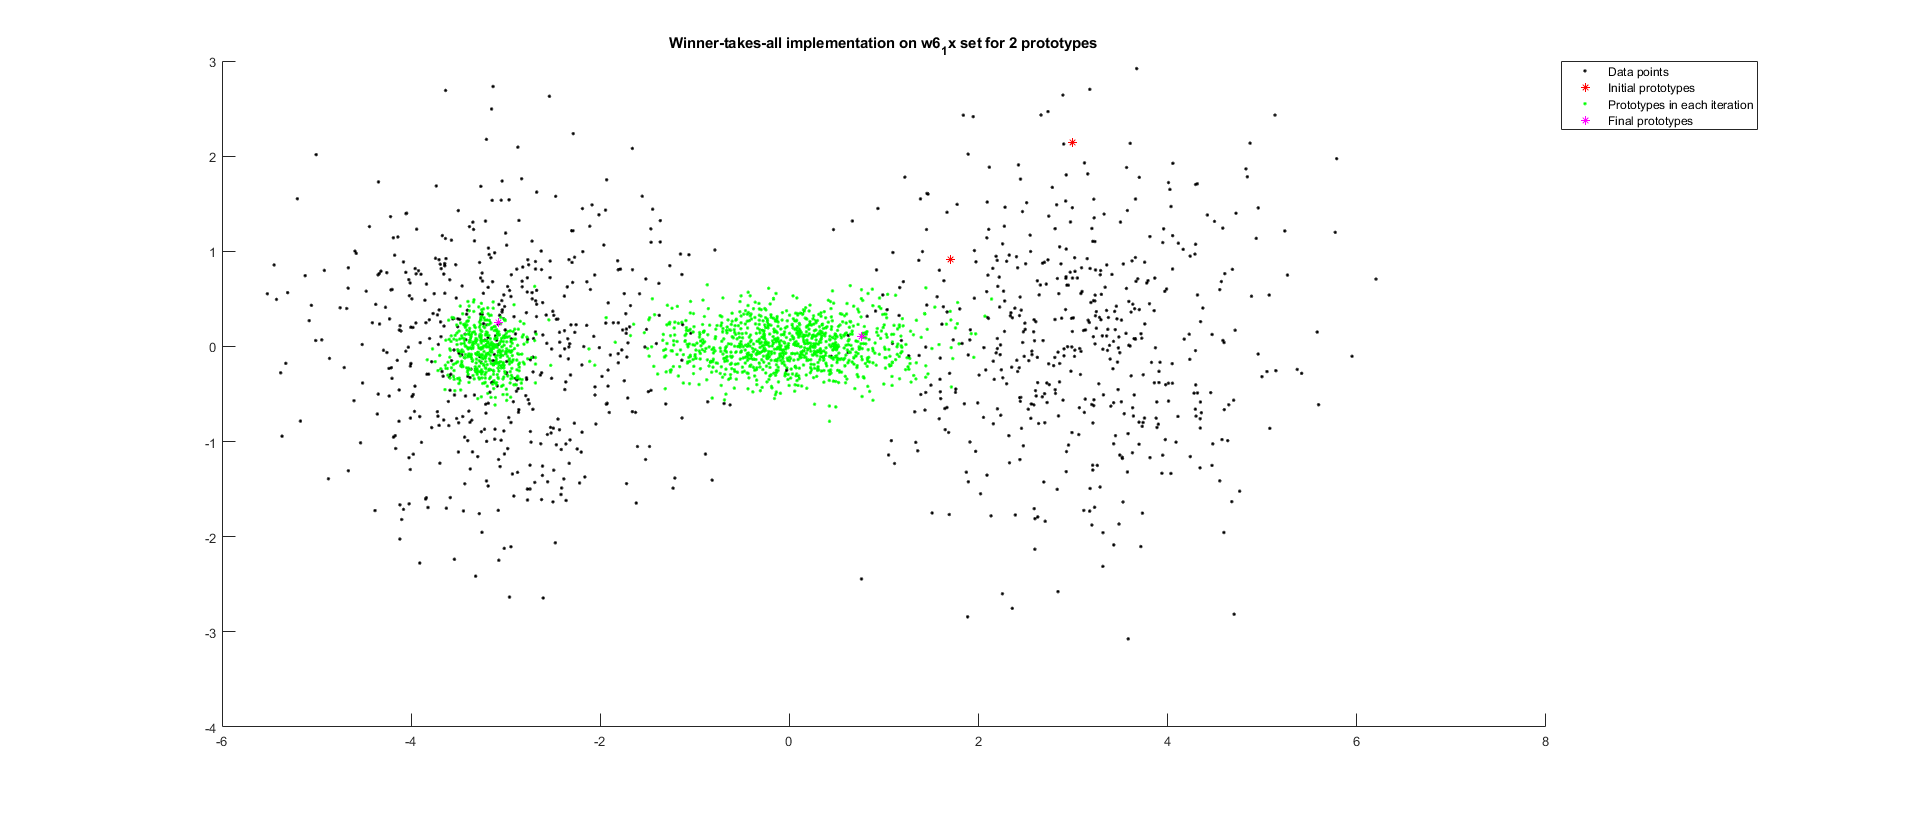
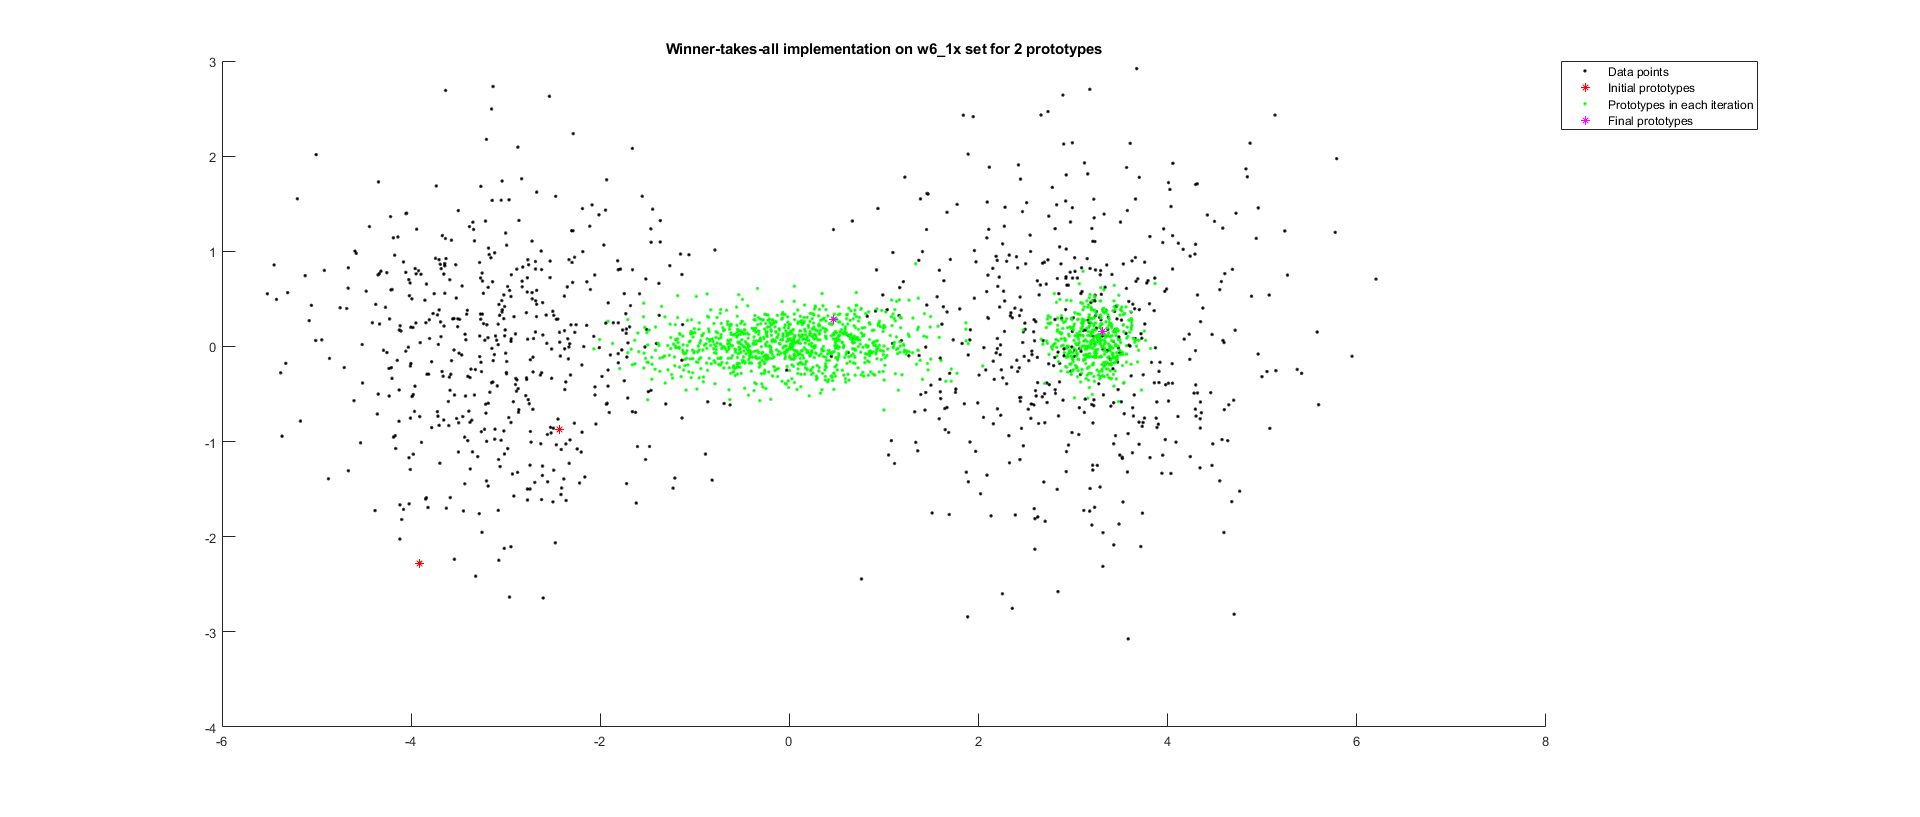
Updated title error

diff --git a/lab_week5_data/assignment1.m b/lab_week5_data/assignment1.m
@@ -25,7 +25,7 @@ for t = 1:tmax
     drawnow;
 end
 p4 = scatter(prototype_values(:,1),prototype_values(:,2),'m*');
-title('Winner-takes-all implementation on w6_1x set for 2 prototypes');
+title('Winner-takes-all implementation on w6_1x set for 2 prototypes', 'Interpreter', 'None');
 h = [p1(1),p2(1),p3(1),p4(1)];
 legend(h,'Data points', 'Initial prototypes', 'Prototypes in each iteration', 'Final prototypes', 'Location', 'northeastoutside');
 hold off;
